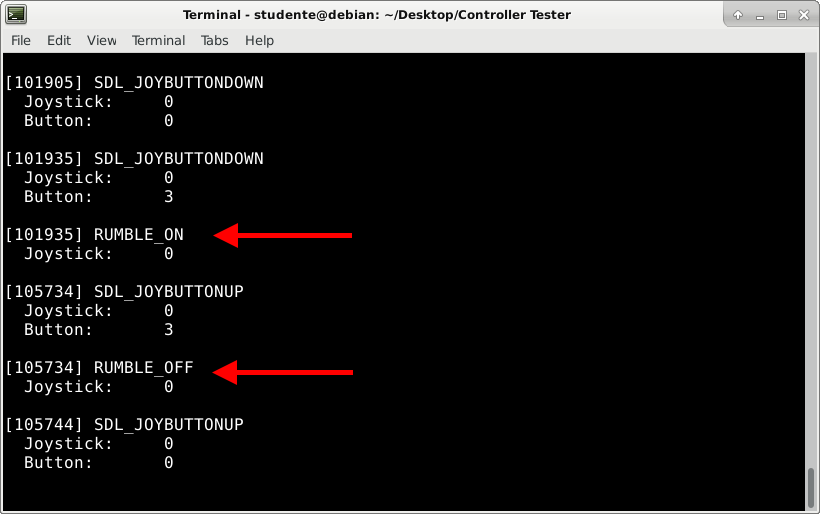
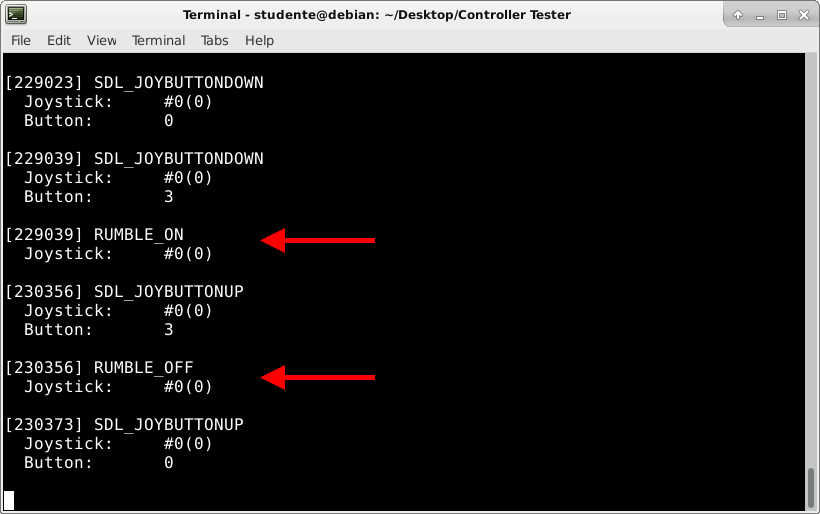
update
-input.c - added # to better recognize which number is the index and which one is the ID.
-pictures - updated with the new output formats.

diff --git a/src/input.c b/src/input.c
@@ -10,7 +10,7 @@ void doJoystickAxisMotion(SDL_JoyAxisEvent *event)
 	{
 		if(event->axis == 0) 
 		{
-			fprintf(stdout, "[%zu] SDL_JOYAXISMOTION\n  Joystick:\t%i(%i)\n  Axis:\t\t%i (ANALOG_L)\n  Value:\t%i ", event->timestamp, i, event->which, event->axis, event->value);
+			fprintf(stdout, "[%zu] SDL_JOYAXISMOTION\n  Joystick:\t#%i(%i)\n  Axis:\t\t%i (ANALOG_L)\n  Value:\t%i ", event->timestamp, i, event->which, event->axis, event->value);
 			if(event->value < 0)
 				fprintf(stdout, "(LEFT)\n\n");
 			else
@@ -19,7 +19,7 @@ void doJoystickAxisMotion(SDL_JoyAxisEvent *event)
 
 		if(event->axis == 1) 
 		{
-			fprintf(stdout, "[%zu] SDL_JOYAXISMOTION\n  Joystick:\t%i(%i)\n  Axis:\t\t%i (ANALOG_L)\n  Value:\t%i ", event->timestamp, i, event->which, event->axis, event->value);
+			fprintf(stdout, "[%zu] SDL_JOYAXISMOTION\n  Joystick:\t#%i(%i)\n  Axis:\t\t%i (ANALOG_L)\n  Value:\t%i ", event->timestamp, i, event->which, event->axis, event->value);
 			if(event->value < 0)
 				fprintf(stdout, "(UP)\n\n");
 			else
@@ -27,7 +27,7 @@ void doJoystickAxisMotion(SDL_JoyAxisEvent *event)
 		}
 		if(event->axis == 2) 
 		{
-			fprintf(stdout, "[%zu] SDL_JOYAXISMOTION\n  Joystick:\t%i(%i)\n  Axis:\t\t%i (ANALOG_R)\n  Value:\t%i ", event->timestamp, i, event->which, event->axis, event->value);
+			fprintf(stdout, "[%zu] SDL_JOYAXISMOTION\n  Joystick:\t#%i(%i)\n  Axis:\t\t%i (ANALOG_R)\n  Value:\t%i ", event->timestamp, i, event->which, event->axis, event->value);
 			if(event->value < 0)
 				fprintf(stdout, "(LEFT)\n\n");
 			else
@@ -36,7 +36,7 @@ void doJoystickAxisMotion(SDL_JoyAxisEvent *event)
 
 		if(event->axis == 3) 
 		{
-			fprintf(stdout, "[%zu] SDL_JOYAXISMOTION\n  Joystick:\t%i(%i)\n  Axis:\t\t%i (ANALOG_R)\n  Value:\t%i ", event->timestamp, i, event->which, event->axis, event->value);
+			fprintf(stdout, "[%zu] SDL_JOYAXISMOTION\n  Joystick:\t#%i(%i)\n  Axis:\t\t%i (ANALOG_R)\n  Value:\t%i ", event->timestamp, i, event->which, event->axis, event->value);
 			if(event->value < 0)
 				fprintf(stdout, "(UP)\n\n");
 			else
@@ -48,14 +48,14 @@ void doJoystickAxisMotion(SDL_JoyAxisEvent *event)
 void doJoystickButtonDown(SDL_JoyButtonEvent *event)
 {
 	int i = getJoyIndex(event->which);
-	fprintf(stdout, "[%zu] SDL_JOYBUTTONDOWN\n  Joystick:\t%i(%i)\n  Button:\t%i\n\n", event->timestamp, i, event->which, event->button);
+	fprintf(stdout, "[%zu] SDL_JOYBUTTONDOWN\n  Joystick:\t#%i(%i)\n  Button:\t%i\n\n", event->timestamp, i, event->which, event->button);
 	
 	// rumble
 	if(app.haptics[i] != NULL && (event->button == 0 || event->button == 3)) 
 	{
 		app.rumble[i]++;
 		if(app.rumble[i] == 2)
-			fprintf(stdout, "[%zu] RUMBLE_ON\n  Joystick:\t%i(%i)\n\n", event->timestamp, i, event->which);
+			fprintf(stdout, "[%zu] RUMBLE_ON\n  Joystick:\t#%i(%i)\n\n", event->timestamp, i, event->which);
 	}
 }
 
@@ -63,13 +63,13 @@ void doJoystickButtonUp(SDL_JoyButtonEvent *event)
 {
 	int i = getJoyIndex(event->which);
 	
-	fprintf(stdout, "[%zu] SDL_JOYBUTTONUP\n  Joystick:\t%i(%i)\n  Button:\t%i\n\n", event->timestamp, i, event->which, event->button);
+	fprintf(stdout, "[%zu] SDL_JOYBUTTONUP\n  Joystick:\t#%i(%i)\n  Button:\t%i\n\n", event->timestamp, i, event->which, event->button);
 	
 	// rumble
 	if(app.haptics[i] != NULL && (event->button == 0 || event->button == 3)) 
 	{
 		if(app.rumble[i] == 2)
-			fprintf(stdout, "[%zu] RUMBLE_OFF\n  Joystick:\t%i(%i)\n\n", event->timestamp, i, event->which);
+			fprintf(stdout, "[%zu] RUMBLE_OFF\n  Joystick:\t#%i(%i)\n\n", event->timestamp, i, event->which);
 		app.rumble[i]--;
 	}
 }
@@ -141,6 +141,8 @@ void doJoystickAdded(SDL_JoyDeviceEvent *event)
 		return;
 	}
 	fprintf(stdout, "  Haptic rumble:\tenabled\n\n");
+	
+	fprintf(stdout, "Joystick currently attached: %i.\n\n", SDL_NumJoysticks());
 }
 
 void doJoystickRemoved(SDL_JoyDeviceEvent *event)
